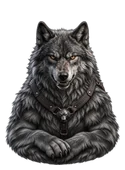
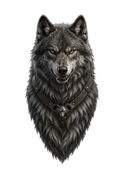
Retire rejected Kaela variant and preserve the original wolf portrait (#2681)

diff --git a/src/data/AVATAR_LIBRARY.js b/src/data/AVATAR_LIBRARY.js
@@ -9,7 +9,7 @@
  */
 
 // Version only image requests; catalog IDs and entitlement paths stay stable.
-export const AVATAR_ART_REVISION = '4b7ebb1d3e8cfaa8bd4f';
+export const AVATAR_ART_REVISION = '01583720e532bebe42bf';
 
 // Avatar categories
 export const AVATAR_CATEGORIES = {
